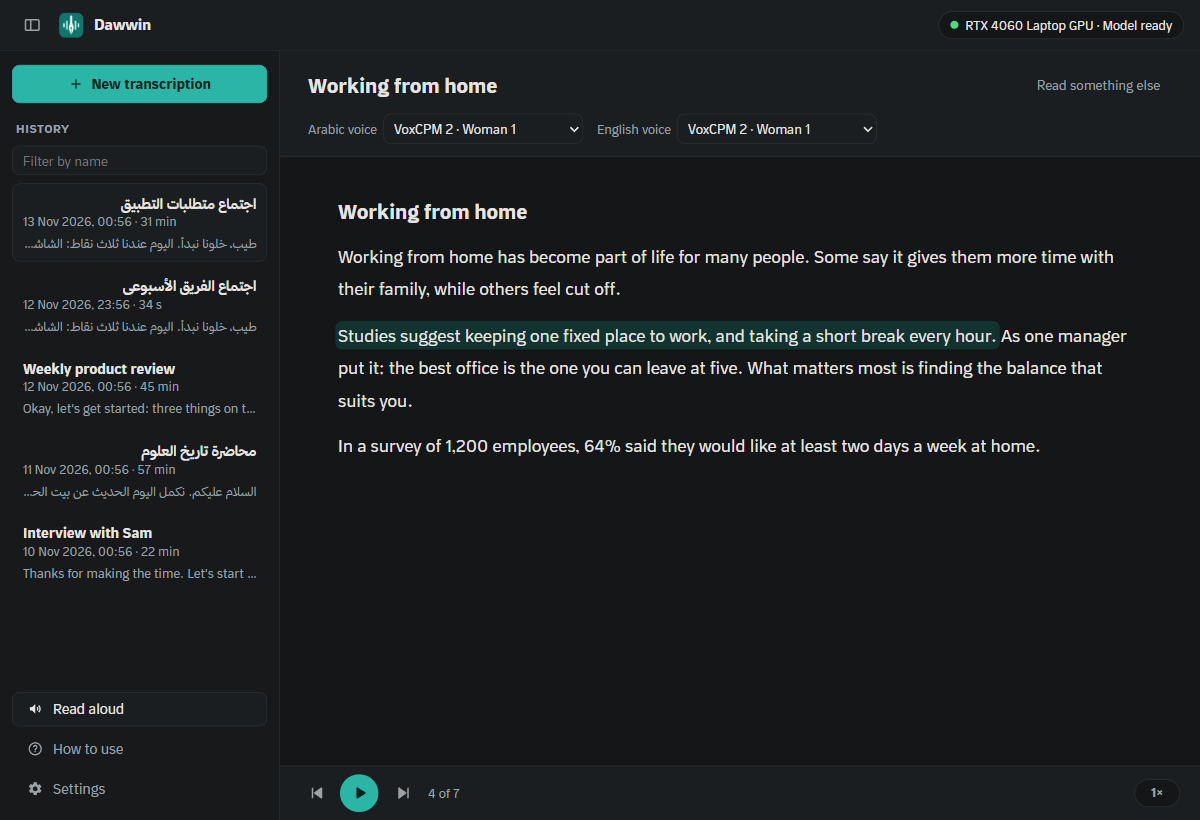
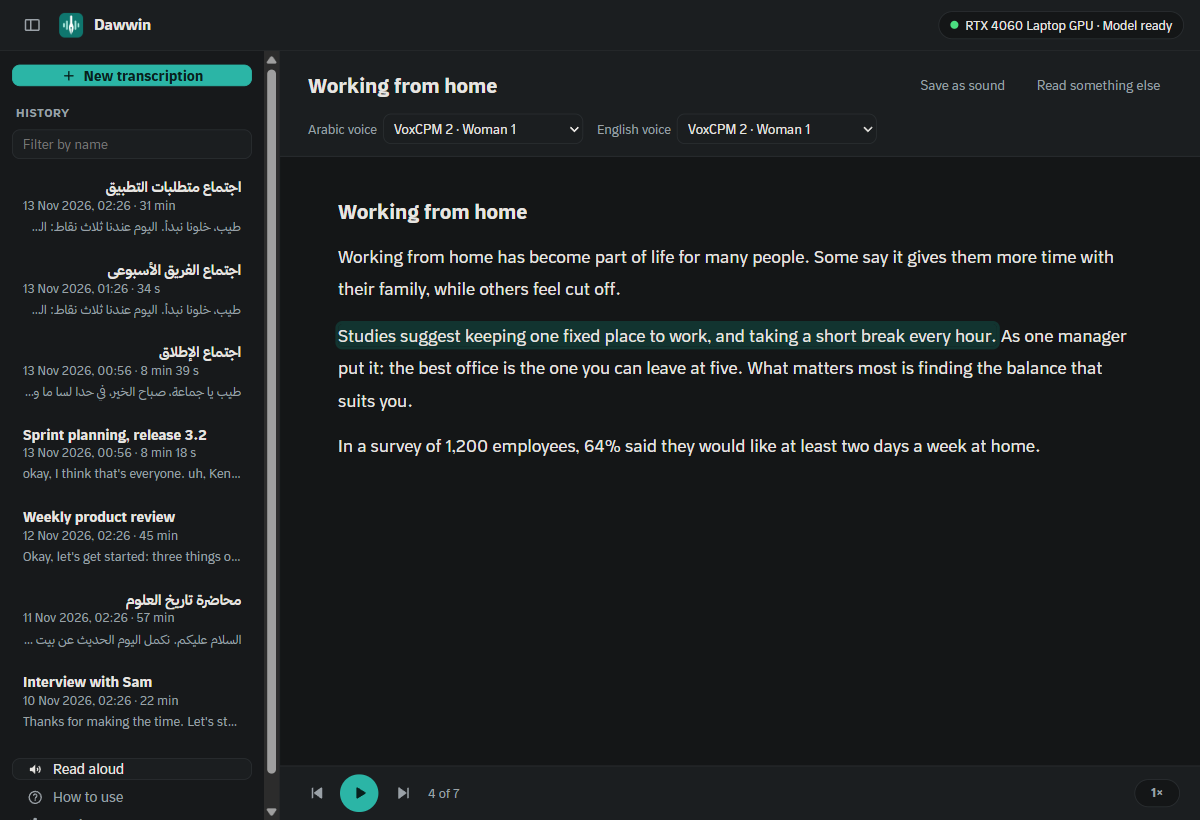
How to use, the README and the contributor notes for 1.8.0
How to use gets a part of its own, Read anything on the screen, after Read aloud, whose part now
names PDFs, e-books, pictures of text and Save as sound; its pictures and the README's (Settings, the
small player, Read aloud with Save as sound) are made by pictures.mjs from made-up data in English
and Arabic. The README says which programs the selection was tried in, and which not yet; Privacy
says what happens to a selection and to the clipboard; Licenses name PDFium and what is inside it.
steps.mjs and screen.mjs count thirteen parts.

Changed region(s): [[0.0, 0.061, 0.2467, 0.9451], [0.0, 0.8232, 0.185, 0.9756], [0.7708, 0.0915, 0.8325, 0.122]]

diff --git a/ui/reader-i18n.js b/ui/reader-i18n.js
@@ -42,7 +42,7 @@ Object.assign(I18N.en.s, {
   "read.about.supertonic3": "Arabic and English, ten voices. Fast on any processor.",
   "read.about.phonon": "English only, five voices. The smallest.",
   "guide.readTitle": "Have any text read aloud",
-  "guide.readText": "Open Read aloud and drop a text file, a Markdown file, a web page, a Word document or subtitles, or paste text, and press play. Dawwin reads it a sentence at a time and marks the one it is reading: click any sentence to read from there, and it remembers where you stopped. On a transcript, Listen reads it, or its translation when one is shown. Arabic and English each have their own voice: VoxCPM 2 sounds the most natural and wants a graphics card, Supertonic 3 reads both on any processor, and Phonon reads English and is the smallest. Download them in Settings, where you can hear each one first.",
+  "guide.readText": "Open Read aloud and drop a text file, a Markdown file, a web page, a Word document, subtitles, a PDF, an e-book (EPUB) or a picture of text, or paste text, and press play. A book shows its chapters to go to, a scan or a picture is read by Windows' own text recognition, and Save as sound makes a sound file to listen to away from the computer (M4A, or M4B with chapters for a book). Dawwin reads it a sentence at a time and marks the one it is reading: click any sentence to read from there, and it remembers where you stopped. On a transcript, Listen reads it, or its translation when one is shown. Arabic and English each have their own voice: VoxCPM 2 sounds the most natural and wants a graphics card, Supertonic 3 reads both on any processor, and Phonon reads English and is the smallest. Download them in Settings, where you can hear each one first.",
 });
 
 Object.assign(I18N.ar.s, {
@@ -86,5 +86,5 @@ Object.assign(I18N.ar.s, {
   "read.about.supertonic3": "العربية والإنجليزية، عشرة أصوات. سريع على أي معالج.",
   "read.about.phonon": "الإنجليزية فقط، خمسة أصوات. الأصغر حجمًا.",
   "guide.readTitle": "اسمع أي نص مقروءًا",
-  "guide.readText": "افتح «القراءة بصوت عالٍ» وأفلِت ملفًا نصيًا أو Markdown أو صفحة ويب أو مستند Word أو ملف ترجمة، أو الصق نصًا، ثم اضغط تشغيل. يقرؤه دَوِّن جملةً جملة ويُبرز الجملة التي يقرؤها: انقر أي جملة ليقرأ منها، ويتذكّر أين توقفت. وفي التفريغ يقرؤه زر «استمع»، أو ترجمته إن كانت ظاهرة. للعربية صوتها وللإنجليزية صوتها: VoxCPM 2 أقربها إلى الطبيعي ويحتاج بطاقة رسوميات، وSupertonic 3 يقرأ اللغتين على أي معالج، وPhonon يقرأ الإنجليزية وهو الأصغر. نزّلها من الإعدادات، وتستطيع أن تسمع كلًا منها قبل تنزيله.",
+  "guide.readText": "افتح «القراءة بصوت عالٍ» وأفلِت ملفًا نصيًا أو Markdown أو صفحة ويب أو مستند Word أو ملف ترجمة أو ملف PDF أو كتابًا إلكترونيًا (EPUB) أو صورة فيها نص، أو الصق نصًا، ثم اضغط تشغيل. يعرض الكتاب فصوله لتنتقل إليها، ويقرأ ويندوز بنفسه النص في الصور والمستندات الممسوحة، وزر «احفظها صوتًا» يصنع ملفًا صوتيًا تسمعه بعيدًا عن الحاسوب (M4A، أو M4B بفصوله إن كان كتابًا). يقرؤه دَوِّن جملةً جملة ويُبرز الجملة التي يقرؤها: انقر أي جملة ليقرأ منها، ويتذكّر أين توقفت. وفي التفريغ يقرؤه زر «استمع»، أو ترجمته إن كانت ظاهرة. للعربية صوتها وللإنجليزية صوتها: VoxCPM 2 أقربها إلى الطبيعي ويحتاج بطاقة رسوميات، وSupertonic 3 يقرأ اللغتين على أي معالج، وPhonon يقرأ الإنجليزية وهو الأصغر. نزّلها من الإعدادات، وتستطيع أن تسمع كلًا منها قبل تنزيله.",
 });

diff --git a/ui/screen.js b/ui/screen.js
@@ -30,6 +30,8 @@ Object.assign(I18N.en.s, {
   "scr.chaptersTip": "Go to a chapter",
   "scr.pdfiumAsk": "Reading PDFs needs PDFium, a download of about 4 MB, once. Download it now?",
   "scr.pdfiumGetting": "Downloading PDFium…",
+  "guide.screenTitle": "Read anything on the screen",
+  "guide.screenText": "In Settings, under Read anything on the screen, turn on the shortcut. Then select text in any program, a web page, a Word document, a PDF, an email or a chat, and press Ctrl+Shift+Space: Dawwin reads it in the voices of Read aloud, in a small player at the corner of the screen that leaves the keyboard where it was, with pause, back and forward a sentence. Press the shortcut again to stop. If another program already uses those keys, Dawwin says so and offers free ones. While the shortcut is on, closing Dawwin's window keeps it in the notification area, and it can start with Windows. Where a program does not show Dawwin what is selected, Dawwin presses Ctrl+C for you and puts back what you had copied, never in a terminal (this can be turned off). What you select is read on this computer and kept nowhere. Words the voice gets wrong go in Say it like this.",
 });
 
 Object.assign(I18N.ar.s, {
@@ -60,7 +62,11 @@ Object.assign(I18N.ar.s, {
   "scr.chaptersTip": "انتقل إلى فصل",
   "scr.pdfiumAsk": "تحتاج قراءة ملفات PDF إلى PDFium، تنزيل بحجم 4 ميغابايت تقريبًا مرة واحدة. أتنزّله الآن؟",
   "scr.pdfiumGetting": "يُنزَّل PDFium…",
+  "guide.screenTitle": "اقرأ أي نص على الشاشة",
+  "guide.screenText": "من الإعدادات، تحت «قراءة أي نص على الشاشة»، شغّل الاختصار. ثم حدِّد نصًا في أي برنامج، صفحة ويب أو مستند Word أو ملف PDF أو بريد أو محادثة، واضغط Ctrl+Shift+Space: يقرؤه دَوِّن بأصوات «القراءة بصوت عالٍ» في مشغّل صغير في زاوية الشاشة يترك لوحة المفاتيح حيث كانت، فيه إيقاف مؤقت ورجوع جملة وتقدّم جملة. اضغط الاختصار مرة أخرى للإيقاف. وإن كان برنامج آخر يستخدم تلك المفاتيح قال لك دَوِّن ذلك واقترح مفاتيح خالية. وما دام الاختصار مشغّلًا فإغلاق نافذة دَوِّن يُبقيه في منطقة الإشعارات، ويمكن أن يبدأ مع ويندوز. وحيث لا يُطلع البرنامج دَوِّن على ما حُدِّد فيه، يضغط دَوِّن Ctrl+C عنك ثم يعيد ما كنت نسخته، ولا يفعل ذلك في الطرفية أبدًا (ويمكن إطفاء ذلك). ما تحدِّده يُقرأ على هذا الحاسوب ولا يُحفظ في أي مكان. والكلمات التي ينطقها الصوت خطأً تضعها في «انطقها هكذا».",
 });
+
+
 
 (function () {
   const call = (cmd, args) => window.__TAURI__.core.invoke(cmd, args);
@@ -237,7 +243,13 @@ Object.assign(I18N.ar.s, {
     }
   }
 
-  window.addEventListener("DOMContentLoaded", refresh);
+  window.addEventListener("DOMContentLoaded", () => {
+    // How to use: a part of its own, after Read aloud (app.js, which lists the parts, comes after this file)
+    if (typeof GUIDE !== "undefined" && !GUIDE.includes("screen")) GUIDE.splice(GUIDE.indexOf("read") + 1, 0, "screen");
+    refresh();
+  });
+  // what the pictures of How to use show (tools/e2e/pictures.mjs)
+  window.__screen = { render };
   // the interface language changed: the tooltips and the lists follow
   new MutationObserver(() => state && render(state)).observe(document.documentElement, { attributes: true, attributeFilter: ["lang"] });
 })();

diff --git a/ui/style.css b/ui/style.css
@@ -488,6 +488,11 @@ mark.current { background: var(--mark-current); color: #1c1203; }
 .read-head .t-title-row { justify-content: space-between; }
 .read-head-tools { display: flex; align-items: center; gap: 8px; flex-wrap: wrap; }
 .read-head-tools select { max-width: 260px; }
+/* read anything on the screen, in Settings (1.8.0) */
+#scr-keys { flex: none; width: 220px; }
+.scr-say-row { display: flex; align-items: center; gap: 8px; flex-wrap: nowrap; }
+.scr-say-row .select { flex: none; width: 130px; }
+.scr-say-row input.input { flex: 1; min-width: 0; }
 .read-voices { gap: 14px; flex-wrap: wrap; }
 .read-voice { display: inline-flex; align-items: center; gap: 6px; }
 .read-text-box { flex: 1; overflow-y: auto; padding: 18px 28px 48px; font-size: 17px; line-height: 1.9; max-width: 860px; width: 100%; margin: 0 auto; }

diff --git a/README.md b/README.md
@@ -49,8 +49,11 @@ English. Nothing leaves your computer: no account, no upload, no subscription, n
 - **Voice notes.** WhatsApp voice notes to text.
 - **Accessibility.** Captions for people who are deaf or hard of hearing, and any text read aloud for
   people who find reading hard.
-- **Listening instead of reading.** An article, a report or a long document read aloud while you do
-  something else; a meeting's translation heard in the language you follow best.
+- **Listening instead of reading.** An article, a report, a PDF or an e-book read aloud while you do
+  something else, or saved as a sound file for the road; a meeting's translation heard in the language
+  you follow best.
+- **Anything you are reading, read to you.** Select text in a browser, an email, a chat or a PDF and press
+  a shortcut: Dawwin reads it in a natural voice, without copying and pasting it anywhere.
 - **Learning a language.** Read along with **Follow words**, with the translation under each line.
 - **Confidential recordings.** Legal, medical, HR and other private calls are transcribed on your
   own machine, never on someone else's server.
@@ -203,7 +206,40 @@ English. Nothing leaves your computer: no account, no upload, no subscription, n
   English and is the smallest. Hear each one in **Settings** before you download it. The voices run on
   your PC like everything else: the text never leaves it.
 
+- New in 1.8: **PDFs** (the first one brings PDFium, 3 MB), read in the right order also in Arabic;
+  **e-books** (EPUB), with their chapters to go to and the place remembered; and **pictures of text** and
+  scanned PDFs, read by Windows' own text recognition (Windows says which language to add when it
+  cannot read one).
+- **Save as sound** (new in 1.8): the reading as a sound file to listen to away from the computer, M4A,
+  or M4B with a chapter for each chapter of a book. It is made in the list of jobs, with its progress,
+  and can be stopped there.
+
 ![Read aloud: an article with the sentence being read marked, the Arabic and English voices chosen at the top, and the player at the bottom.](docs/screenshots/read.png)
+
+**Read anything on the screen** (new in 1.8)
+
+- Select text in any program, a web page, a Word document, a PDF, an email or a chat, and press
+  **Ctrl+Shift+Space**: Dawwin reads it in the voices of Read aloud, in a small player at the corner of the
+  screen that leaves the keyboard where it was, with pause and back and forward a sentence. Press the
+  shortcut again to stop. Turn it on in **Settings → Read anything on the screen**, where the keys can be
+  changed; if another program already uses them, Dawwin says so and offers free ones.
+- While the shortcut is on, closing Dawwin's window keeps it in the notification area, ready; **Start with
+  Windows** (off until you turn it on) starts it there when you sign in. Starting Dawwin again opens its
+  window.
+- Dawwin asks the program for its selection through Windows' accessibility interface. Where a program
+  does not give it that way, Dawwin presses Ctrl+C for you and puts back what you had copied, text,
+  pictures and all; never in a terminal, where Ctrl+C would stop the running program, and it can be
+  turned off. With nothing selected, it says so instead of reading old text. In a window that runs as
+  administrator, Windows lets no ordinary program read, and Dawwin says that too.
+- **Say it like this**: names and terms the voice says wrongly, with how to say them, for Arabic and for
+  English sentences.
+- Tried on: a test window of its own (a standard text box, and one that only answers Ctrl+C). Not yet
+  tried in Chrome, Edge, Firefox, Word, Outlook, a PDF viewer, VS Code, Windows Terminal, WhatsApp or
+  Telegram: it is built for them, and how each answers is still to be seen.
+
+![Read anything on the screen in Settings: the shortcut turned on, Ctrl+Shift+Space, copying the selection on, Start with Windows off, and a word in Say it like this.](docs/screenshots/screen.png)
+
+![The small player reading a selection: the sentence being read, back, pause, forward and close.](docs/screenshots/player.png)
 
 **Sound** (new in 1.3)
 
@@ -325,9 +361,12 @@ translation model translated a short line in about 2 seconds on a small cloud CP
 same kind of CPU, the minutes of a meeting of eight minutes took about 4½ minutes with Jais-3 7B and
 under a minute with Jais-3 0.9B.
 
+7. To have text you select in other programs read, turn on the shortcut in **Settings → Read anything
+   on the screen**, select some text and press **Ctrl+Shift+Space**. It reads in the voices of step 6.
+
 **Requirements:** Windows 10 or 11 (64-bit), 8 GB of RAM (16 GB for the best translation or minutes model
-without a GPU), and room for the models. The installer is small (about 10 MB): the translator, ffmpeg and
-the voice program download only for those who use them.
+without a GPU), and room for the models. The installer is small (about 10 MB): the translator, ffmpeg,
+the voice program and PDFium download only for those who use them.
 
 ## How the translation models were chosen
 
@@ -440,7 +479,11 @@ Dawwin goes online only when you ask it to: to download a model (from
 turn that on in Settings). Recordings, transcripts, translations and minutes stay on your computer. A meeting you
 record is captured from your own microphone and speakers only: nothing joins the call, and the
 recording is never sent anywhere. Recording a call may still need the consent of everyone on it, which
-Dawwin reminds you of before the first recording. The
+Dawwin reminds you of before the first recording. Text you select in other programs to have it read is
+read on your computer and kept nowhere: not in History, not in a log, not even its place, and the sound
+made of it is deleted when the reading stops. Where Dawwin has to press Ctrl+C to get it, the program
+copies it, so it can show in Windows' clipboard history (Win+V) if you use that; Dawwin then puts back
+what you had copied. The
 translator, which also writes the minutes, listens only to Dawwin on the same computer, with a key it
 is given at start.
 
@@ -493,6 +536,10 @@ the model folder, if you chose another place for it).
   [llama.cpp](https://github.com/ggml-org/llama.cpp), both under the MIT license, and for the voices
   [audio.cpp](https://github.com/0xShug0/audio.cpp)'s official library, under Apache-2.0, around which
   Dawwin's own voice program ([voice](voice)) is built.
+- **PDFium**: Google's PDF library, under the BSD 3-Clause license, in the Windows build of
+  [pdfium-binaries](https://github.com/bblanchon/pdfium-binaries) (MIT). It holds FreeType (FreeType
+  License), ICU, zlib, libpng, libjpeg-turbo, OpenJPEG, Little CMS, HarfBuzz, Abseil, Highway, AGG 2.3,
+  simdutf and fast_float; the download carries all their licenses.
 - **ffmpeg**: Dawwin's own builds of [FFmpeg](https://ffmpeg.org), under the LGPL 2.1, made by
   [tools/ffmpeg/build.sh](tools/ffmpeg/build.sh) from FFmpeg's source. The one for video also holds
   [libass](https://github.com/libass/libass), [FreeType](https://freetype.org),

diff --git a/docs/how-it-works.md b/docs/how-it-works.md
@@ -36,6 +36,8 @@ ffmpeg are not in the installer: Dawwin downloads them when they are wanted (see
 | `src-tauri/src/instance.rs` | One Dawwin per data folder: started again, it brings the open window forward and quits. |
 | `src-tauri/src/reading/` | Read aloud: files into text (`formats.rs`), sentences and runs of one language by script (`text.rs`), numbers in words (`numbers.rs`), the voices (`voices.rs`), the voice program (`voice.rs`), and the reader that makes each sentence and the next ones ahead (`mod.rs`). |
 | `voice/` | `dawwin-voice.exe`: the voice, around [audio.cpp](https://github.com/0xShug0/audio.cpp)'s official library, loaded at run time; JSON lines on stdin/stdout, no port. Downloaded with the first voice, with VoxCPM 2's ready-made voices (`voice/refs`). |
+| `src-tauri/src/selection/` | The text selected in another program (1.8.0): UI Automation's text pattern on the focused element or an ancestor, else Ctrl+C with every clipboard format kept and put back; terminals and windows run as administrator left alone. The decision is tested from recorded answers; `tools/trials/selection` tries it behind a real shortcut. |
+| `src-tauri/src/screen/` | Read anything on the screen (1.8.0): the shortcut on a thread of its own (`shortcut.rs`), the notification area, closing to it and Start with Windows (`app.rs`, `autostart.rs`), the small player (`ui/player.html`), Say it like this (`say.rs`); and the files it adds to Read aloud: PDF through PDFium with the characters put in reading order by where they sit (`pdf.rs`, `layout.rs`), EPUB (`epub.rs`, `markup.rs`), pictures through Windows' own OCR (`ocr.rs`), and saving a reading as M4A or M4B with chapters (`sound.rs`). |
 | `src-tauri/src/i18n.rs`, `ui/i18n.js` | Messages in English and Arabic. |
 | `src-tauri/src/speakers.rs` | Who said what: the speaker model's turns given to the lines, a line split where the speaker changes, rename, merge, a line given to someone else. |
 | `src-tauri/src/language.rs` | Detect the language: the first half minute of speech heard in pieces, and the decision among the languages with a model. |
@@ -161,7 +163,19 @@ ffmpeg are not in the installer: Dawwin downloads them when they are wanted (see
   ffmpeg, the larger first, else one on the PATH; burning in takes the video one, or an installed ffmpeg
   that has libass. The **Tools** workflow builds and packs them (`tools/pack.py`), tries them on Windows
   with the app's own unpacking on files of the kinds people bring, runs the app's own sound and video
-  tests on them, and, run by hand with a tag, puts them on that release.
+  tests on them, and, run by hand with a tag, puts them on that release. **PDFium** (1.8.0), for reading
+  PDFs aloud, is pdfium-binaries' official Windows build, checked against its SHA-256 by the workflow and
+  packed with the licenses of what is inside it; the workflow's unpack test reads a made-up Arabic PDF
+  with the packed DLL. It comes with the first PDF opened in Read aloud.
+- **Arabic out of PDFs.** PDFium gives each character with its box; `screen::layout` puts each row's
+  characters in order by where they sit, then from visual into reading order (a right-to-left line
+  reversed, its Latin words and numbers turned back, brackets mirrored), with PDFium's own word spaces.
+  Chrome's "print to PDF" keeps some words' glyphs in drawing order, which PDFium alone gives back
+  reversed; Word's PDFs keep diacritics on lines of their own. Measured on made-up files in
+  `tools/trials/pdf` (README there): 1 % of letters wrong on Chrome's, 12 % on Word's (most of it in
+  Word's own character map), 4 % on an old visual-order file; pdf_oxide 0.3.78 was 65–71 % on all.
+  A page without text is drawn 2000 pixels wide and read by Windows' OCR, whose Arabic lines come back
+  with their words from left to right: `ocr::logical` turns them round.
 - **Who said what.** The engine runs NVIDIA's Streaming Sortformer (4 speakers at most) on the
   processor, next to the speech model wherever that runs, at its offline operating point; one request
   for the whole recording, which a `stop` request ends. When silences were taken out it hears what the
